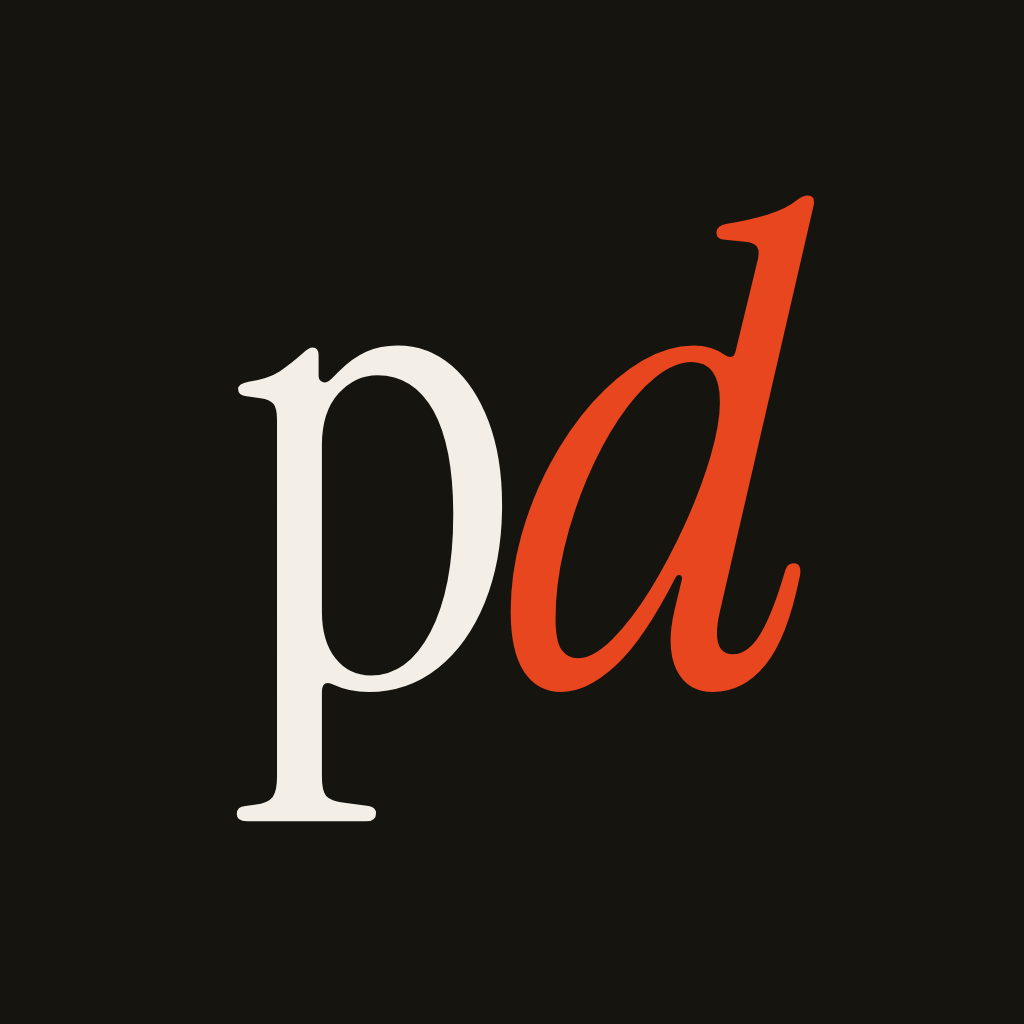
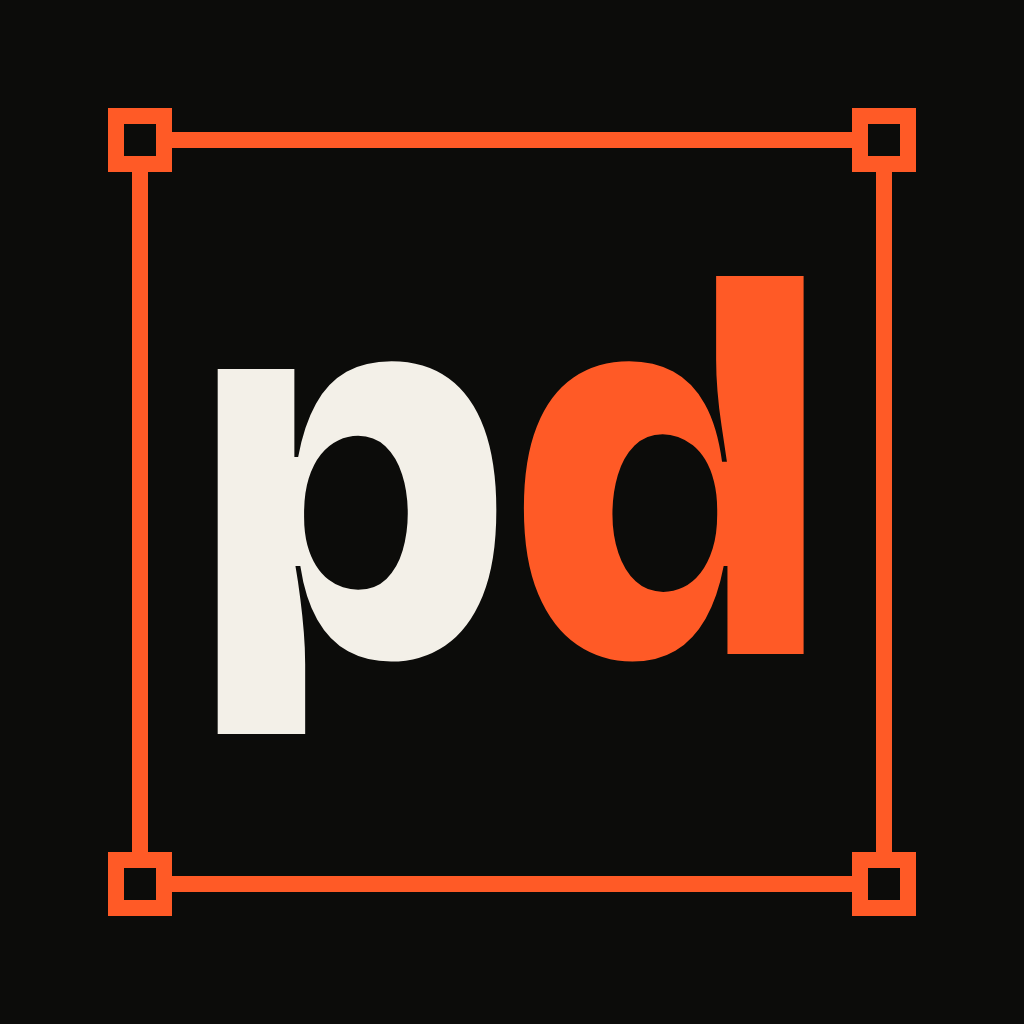
Redesign README visuals: design with receipts
New hero and social preview, team route, every-state and worked-example images,
and a new plugin icon. Every number comes from the example's artifacts; loading
and error states are labeled as specified, not built. HTML sources and a render
script live in .github/assets/src/.

Changed region(s): [[0.1875, 0.1875, 0.8125, 0.8125], [0.0938, 0.0938, 0.9062, 0.9062]]

diff --git a/.github/assets/src/states.html b/.github/assets/src/states.html
@@ -1,0 +1,71 @@
+<!doctype html>
+<html><head><meta charset="utf-8"><link rel="stylesheet" href="brand.css">
+<link rel="stylesheet" href="../../../examples/pantry-meal-planner/src/tokens/tokens.css"><link rel="stylesheet" href="../../../examples/pantry-meal-planner/src/components/components.css">
+<style>
+html,body{width:1280px;height:800px}
+.display{letter-spacing:-.025em;line-height:1.03}
+h2{position:absolute;left:56px;top:44px;font-size:60px;color:var(--ink)}
+.lede{position:absolute;left:58px;top:124px;font:400 24px "Bricolage Grotesque";color:var(--dim)}
+.lede b{color:var(--ink);font-weight:600}
+.row{position:absolute;left:56px;right:56px;top:196px;display:grid;grid-template-columns:repeat(4,1fr);gap:24px}
+.lab{display:flex;justify-content:space-between;align-items:baseline;font:800 20px "JetBrains Mono";color:var(--ink);margin-bottom:12px}
+.lab span{font-weight:400;color:var(--dim);font-size:18px}
+.phone{height:360px;border-radius:22px;border:2px solid #3A3933;overflow:hidden;background:var(--color-surface-page);color:var(--color-text-primary);
+ font-family:"Bricolage Grotesque",sans-serif;zoom:1.12}
+.phone .in{padding:20px;display:grid;gap:12px;font-family:"Bricolage Grotesque",sans-serif}
+.phone *{font-family:"Bricolage Grotesque",sans-serif!important}
+.ph{font:700 24px/1.15 "Bricolage Grotesque";margin:0}
+.dt{font-size:14px;color:var(--color-text-secondary)}
+.card{display:grid;gap:8px}
+.card h3{font:600 15px/1.3 x;margin:0}
+.rn{font-weight:600;font-size:15px;margin:0}.mt{font-size:13px;color:var(--color-text-secondary);margin:0}
+.acts{display:flex;gap:6px}
+.sk{height:12px;border-radius:6px;background:var(--color-surface-sunken)}
+.empty-state{padding:16px!important}
+.tagrow{margin-top:16px;display:flex;flex-wrap:nowrap;gap:8px}
+.t{font:600 16px "JetBrains Mono";padding:4px 9px;border-radius:5px;background:var(--red);color:#fff}
+.t.gap{background:transparent;border:2px solid var(--sig);color:var(--sig)}
+.foot{position:absolute;left:56px;right:56px;bottom:34px;font:400 18px/1.6 "JetBrains Mono";color:var(--dim)}
+.foot b{color:var(--ink);font-weight:600}
+</style></head><body>
+<h2 class="display">The happy path is one state.</h2>
+<div class="lede"><b>pd-ux-design</b> specs every state before anyone builds. Four from the example.</div>
+
+<div class="row">
+ <div><div class="lab">populated <span>built</span></div>
+  <div class="phone"><div class="in">
+   <p class="ph">This week</p><p class="dt">Oct 19 – 25, 2026</p>
+   <div class="card"><h3>Monday 19</h3><div><p class="rn">Lemon chickpea orzo</p><p class="mt">4 servings · 35 min</p></div>
+    <div class="acts"><button class="btn" data-kind="secondary" data-size="sm">Change</button><button class="btn" data-kind="secondary" data-size="sm">Remove</button></div></div>
+   <div class="card"><h3>Saturday 24</h3><p class="mt">Nothing planned</p><div><button class="btn" data-kind="ghost" data-size="md">Add dinner</button></div></div>
+  </div></div>
+  <div class="tagrow"><span class="t">Card</span><span class="t">Button sm</span></div></div>
+
+ <div><div class="lab">loading <span>spec only</span></div>
+  <div class="phone"><div class="in">
+   <p class="ph">This week</p><p class="dt">Loading your week</p>
+   <div class="card"><p class="mt">Loading</p></div>
+   <div class="card"><p class="mt">Loading</p></div>
+   <div class="card"><p class="mt">Loading</p></div>
+  </div></div>
+  <div class="tagrow"><span class="t gap">gap logged: Skeleton</span></div></div>
+
+ <div><div class="lab">empty <span>built</span></div>
+  <div class="phone"><div class="in">
+   <p class="ph">This week</p><p class="dt">Oct 19 – 25, 2026</p>
+   <div class="empty-state"><h3>No dinners planned yet</h3><p>Pick a few saved recipes and Pantry will turn them into a shopping list.</p>
+    <div><button class="btn" data-kind="primary" data-size="md">Browse saved recipes</button></div></div>
+  </div></div>
+  <div class="tagrow"><span class="t">EmptyState</span></div></div>
+
+ <div><div class="lab">error <span>spec only</span></div>
+  <div class="phone"><div class="in">
+   <p class="ph">This week</p><p class="dt">Oct 19 – 25, 2026</p>
+   <div class="empty-state" data-tone="error"><h3>Couldn't load your plan</h3><p>Something went wrong on our side. Your saved recipes are safe.</p>
+    <div><button class="btn" data-kind="secondary" data-size="md">Try again</button></div></div>
+  </div></div>
+  <div class="tagrow"><span class="t">EmptyState · error</span></div></div>
+</div>
+
+<div class="foot">excerpts redrawn from the spec · <b>loading and error were specified, not built or audited</b> (QA F-1)<br>also specified: <b>offline</b> · <b>recipe deleted</b> · <b>no saved recipes</b></div>
+</body></html>

diff --git a/.github/assets/src/team.html b/.github/assets/src/team.html
@@ -1,0 +1,54 @@
+<!doctype html>
+<html><head><meta charset="utf-8"><link rel="stylesheet" href="brand.css">
+<style>
+html,body{width:1280px;height:790px}
+.display{letter-spacing:-.025em;line-height:1.03}
+.k{font:600 17px "JetBrains Mono";letter-spacing:.14em;text-transform:uppercase;color:var(--dim)}
+h2{position:absolute;left:56px;top:44px;font-size:60px}
+.lede{position:absolute;left:58px;top:120px;font:400 25px "Bricolage Grotesque";color:var(--dim)}
+.lede b{color:var(--ink);font-weight:600}
+.lead{position:absolute;right:56px;top:50px;display:flex;align-items:center;gap:12px;background:var(--ink);color:var(--bg);
+ font:800 24px "JetBrains Mono";padding:16px 22px;border-radius:10px}
+.lead i{width:12px;height:12px;border-radius:50%;background:var(--sig)}
+.cols{position:absolute;left:56px;right:56px;top:188px;display:grid;grid-template-columns:1fr 1.3fr 1fr .9fr;gap:20px}
+.col{border-top:3px solid var(--line);padding-top:16px}
+.col .k{margin-bottom:16px}
+.n{display:inline-block;font:600 21px "JetBrains Mono";border:2px solid #3A3933;border-radius:9px;padding:8px 13px;margin:0 8px 10px 0;color:var(--dim);background:var(--panel)}
+.n.on{border-color:var(--sig);color:var(--ink)}
+.route{position:absolute;left:56px;right:56px;top:462px}
+.route .k{margin-bottom:14px}
+.route .k b{color:var(--sig)}
+.strip{display:flex;align-items:center}
+.s{font:800 21px "JetBrains Mono";background:var(--sig);color:var(--bg);border-radius:9px;padding:10px 13px;white-space:nowrap}
+.c{flex:1;height:2px;background:var(--sig);min-width:14px;position:relative}
+.c::after{content:"";position:absolute;right:-1px;top:-5px;border:6px solid transparent;border-left:8px solid var(--sig);border-right:0}
+.fork{display:flex;flex-direction:column;gap:8px;border-left:2px solid var(--sig);border-right:2px solid var(--sig);padding:0 10px}
+.note{margin-top:12px;font:400 18px "JetBrains Mono";color:var(--dim)}
+.found{position:absolute;left:56px;right:56px;bottom:44px;border:2px solid #3A3933;border-radius:12px;padding:16px 22px;display:flex;justify-content:space-between;align-items:center;background:var(--panel)}
+.found b{font:800 21px "JetBrains Mono";color:var(--ink)}
+.found span{font:400 21px "Bricolage Grotesque";color:var(--dim)}
+.found span em{font-style:normal;color:var(--ink)}
+</style></head><body>
+<h2 class="display">The team follows the task.</h2>
+<div class="lede">The lead plans the <b>smallest team</b> for each job, and waits for your OK.</div>
+<div class="lead"><i></i>pd-design-lead</div>
+
+<div class="cols">
+ <div class="col"><div class="k">Understand</div><span class="n">research</span><span class="n">architecture</span><span class="n on">flows</span></div>
+ <div class="col"><div class="k">Design</div><span class="n on">ux-design</span><span class="n on">writing</span><span class="n on">visual</span><span class="n on">design-system</span><span class="n">responsive</span></div>
+ <div class="col"><div class="k">Build &amp; verify</div><span class="n on">mocks</span><span class="n">prototyping</span><span class="n on">qa</span></div>
+ <div class="col"><div class="k">Ship &amp; learn</div><span class="n on">handoff</span><span class="n">metrics</span><span class="n">system-ops ↺</span></div>
+</div>
+
+<div class="route">
+ <div class="k">One route · <b>a new flow and its screens</b></div>
+ <div class="strip">
+  <span class="s">flows</span><span class="c"></span><span class="s">ux-design</span><span class="c"></span>
+  <span class="fork"><span class="s">writing</span><span class="s">visual</span></span><span class="c"></span>
+  <span class="s">design-system</span><span class="c"></span><span class="s">mocks</span><span class="c"></span><span class="s">qa</span><span class="c"></span><span class="s">handoff</span>
+ </div>
+ <div class="note">research reused or assumptions agreed · a copy fix needs one specialist</div>
+</div>
+
+<div class="found"><b>pd-foundations</b><span><em>your real design system</em> · every state · WCAG 2.2 AA floor · files in docs/design/</span></div>
+</body></html>

diff --git a/.github/assets/src/example.html b/.github/assets/src/example.html
@@ -1,0 +1,44 @@
+<!doctype html>
+<html><head><meta charset="utf-8"><link rel="stylesheet" href="brand.css">
+<style>
+html,body{width:1280px;height:830px}
+.display{letter-spacing:-.025em;line-height:1.03}
+h2{position:absolute;left:56px;top:44px;font-size:60px}
+.lede{position:absolute;left:58px;top:124px;font:400 24px "Bricolage Grotesque";color:var(--dim)}
+.lede b{color:var(--ink);font-weight:600}
+.win{position:absolute;left:56px;top:196px;width:744px;height:560px;border:2px solid #3A3933;border-radius:14px;overflow:hidden;background:#faf7f2}
+.bar{height:44px;background:#1A1A17;display:flex;align-items:center;gap:8px;padding:0 16px;border-bottom:2px solid #3A3933}
+.bar i{width:12px;height:12px;border-radius:50%;background:#3A3933}
+.bar span{margin-left:14px;font:400 16px "JetBrains Mono";color:var(--dim)}
+.vp{overflow:hidden}.shot{width:100%;display:block}
+.files{position:absolute;left:836px;right:56px;top:196px}
+.files .k{font:600 17px "JetBrains Mono";letter-spacing:.14em;text-transform:uppercase;color:var(--dim);border-bottom:3px solid var(--line);padding-bottom:12px;margin-bottom:6px}
+.m{padding:10px 0 12px;border-bottom:1px solid var(--line);display:flex;flex-direction:column;align-items:flex-start;gap:8px}.m b{font:800 21px "JetBrains Mono"}
+.f{display:flex;justify-content:space-between;align-items:center;font:600 19px "JetBrains Mono";padding:3px 0;border-bottom:1px solid var(--line)}
+.p{font:600 16px "JetBrains Mono";padding:3px 8px;border-radius:5px;border:2px solid #4A4942;color:var(--dim)}
+.p.a{border-color:var(--ok);color:var(--ok)}
+.p.s{border-color:var(--sig);color:var(--sig)}
+.f.side{color:var(--dim)}
+.foot{position:absolute;left:56px;right:56px;bottom:30px;display:flex;justify-content:space-between;font:400 20px "JetBrains Mono";color:var(--dim)}
+.foot b{color:var(--ink);font-weight:600}
+.tag{z-index:2}
+</style></head><body>
+<h2 class="display">One brief in. A whole effort out.</h2>
+<div class="lede">The worked example: a <b>fictional meal planner</b> (invented data), run through the team from plan to handoff.</div>
+
+<div class="win"><div class="bar"><i></i><i></i><i></i><span>mocks/week-planner.html · built only from tokens</span></div>
+ <div class="vp"><img class="shot" src=".build/mock-week.png"></div></div>
+<div class="tag" style="left:470px;top:736px">text contrast 4.71–14.97 : 1</div>
+
+<div class="files">
+ <div class="k">docs/design/</div>
+ <div class="m"><b>plan</b><span class="p a">approved</span></div>
+ <div class="m"><b>research</b><span class="p">draft · assumptions only</span></div>
+ <div class="m"><b>5 specs</b><span class="p">in review · flows → components</span></div>
+ <div class="m"><b>mocks</b><span class="p">in review · 0 off-token colors</span></div>
+ <div class="m"><b>qa</b><span class="p s">pass with conditions · 5 medium open</span></div>
+ <div class="m"><b>handoff</b><span class="p">draft · spec v1.0</span></div>
+</div>
+
+<div class="foot"><div>open it: <b>examples/pantry-meal-planner</b></div><div></div></div>
+</body></html>

diff --git a/.github/assets/src/hero.html b/.github/assets/src/hero.html
@@ -1,0 +1,43 @@
+<!doctype html>
+<html><head><meta charset="utf-8"><link rel="stylesheet" href="brand.css">
+<style>
+html,body{width:1280px;height:640px}
+.top{position:absolute;left:56px;right:56px;top:36px;display:flex;justify-content:space-between;font:400 20px "JetBrains Mono";color:var(--dim)}
+.top b{color:var(--ink);font-weight:800}
+.top .dot{display:inline-block;width:11px;height:11px;border-radius:50%;background:var(--sig);margin-right:10px;vertical-align:1px}
+.hl{position:absolute;left:30px;top:22px;font-size:144px;white-space:nowrap;letter-spacing:-.035em}
+.sub{position:absolute;left:56px;bottom:30px;font:600 34px "Bricolage Grotesque";letter-spacing:-.01em}
+.sub span{color:var(--dim);font-weight:400}
+.receipt{left:794px;top:88px;width:430px;padding:28px 30px 44px;font-size:19px;line-height:1.6}
+.receipt .t{font-weight:800;font-size:22px;letter-spacing:.06em}
+.receipt .s{color:#6D685C;font-size:16px}
+.receipt .big{font-weight:800;font-size:23px;letter-spacing:.02em;margin-top:4px}
+.bar{height:34px;margin-top:14px;background:repeating-linear-gradient(90deg,#151512 0 3px,transparent 3px 5px,#151512 5px 6px,transparent 6px 10px,#151512 10px 14px,transparent 14px 16px)}
+</style></head><body>
+<div class="top"><div><span class="dot"></span><b>pd-design-team</b> · 16 agent skills</div><div>open source · MIT</div></div>
+
+<div class="sel" style="left:56px;top:110px;width:690px;height:426px">
+ <span class="h tl"></span><span class="h tr"></span><span class="h bl"></span><span class="h br"></span>
+ <div class="name"><b>FRAME</b>hero · auto layout</div>
+ <div class="hl display">Design<br>with<br><span class="sig">receipts.</span></div>
+</div>
+<div class="rh" style="left:746px;top:300px;width:48px"></div><div class="tag" style="left:736px;top:312px">48</div>
+
+<div class="receipt">
+ <div class="t">QA RECEIPT</div>
+ <div class="s">week-planner · pd-ux-qa</div>
+ <hr>
+ <div class="row"><span>off-token colors</span><span class="chk">0 / 226 ✓</span></div>
+ <div class="row"><span>text contrast</span><span class="chk">4.71–14.97 ✓</span></div>
+ <div class="row"><span>reflow @ 320px</span><span class="chk">✓</span></div>
+ <div class="row"><span>system gaps</span><span>4 logged</span></div>
+ <hr>
+ <div class="s" style="color:#151512;font-weight:800">NOT RUN</div>
+ <div class="nt" style="font-size:18px">screen reader · keyboard · axe</div>
+ <hr>
+ <div class="row s"><span>9 findings · 0 critical</span><span>5 medium open</span></div>
+ <div class="big">PASS WITH CONDITIONS</div>
+</div>
+
+<div class="sub">A design team for your AI agent.</div>
+</body></html>

diff --git a/.github/assets/src/brand.css b/.github/assets/src/brand.css
@@ -1,0 +1,30 @@
+@import url("https://fonts.googleapis.com/css2?family=Bricolage+Grotesque:opsz,wght@12..96,400;12..96,600;12..96,800&family=JetBrains+Mono:wght@400;600;800&display=block");
+:root{--bg:#0C0C0A;--panel:#141411;--ink:#F3F0E8;--dim:#9A968B;--line:#2C2B26;--sig:#FF5A26;--ok:#C8F560;--red:#FF3E70;--paper:#F1EDE2;--pink:#121210}
+*{box-sizing:border-box;margin:0;padding:0}
+body{background:var(--bg);color:var(--ink);font-family:"Bricolage Grotesque",sans-serif;position:relative;overflow:hidden;
+ background-image:radial-gradient(circle,#262520 1.3px,transparent 1.5px);background-size:32px 32px;background-position:16px 16px}
+.mono{font-family:"JetBrains Mono",monospace}
+.display{font-weight:800;letter-spacing:-.045em;line-height:.88}
+.sig{color:var(--sig)}.ok{color:var(--ok)}.dim{color:var(--dim)}
+/* selection frame */
+.sel{position:absolute;border:2px solid var(--sig)}
+.sel>.h{position:absolute;width:12px;height:12px;background:var(--bg);border:2px solid var(--sig)}
+.sel>.h.tl{left:-7px;top:-7px}.sel>.h.tr{right:-7px;top:-7px}.sel>.h.bl{left:-7px;bottom:-7px}.sel>.h.br{right:-7px;bottom:-7px}
+.sel>.name{position:absolute;left:-2px;top:-34px;font:600 17px "JetBrains Mono";color:var(--sig);white-space:nowrap}
+.sel>.name b{background:var(--sig);color:var(--bg);padding:3px 8px;margin-right:10px;font-weight:800}
+/* redline */
+.tag{position:absolute;font:800 18px "JetBrains Mono";background:var(--red);color:#0B0B09;padding:3px 8px;border-radius:4px;white-space:nowrap}
+.rv{position:absolute;width:2px;background:var(--red)}
+.rv::before,.rv::after{content:"";position:absolute;left:-5px;width:12px;height:2px;background:var(--red)}
+.rv::before{top:0}.rv::after{bottom:0}
+.rh{position:absolute;height:2px;background:var(--red)}
+.rh::before,.rh::after{content:"";position:absolute;top:-5px;height:12px;width:2px;background:var(--red)}
+.rh::before{left:0}.rh::after{right:0}
+/* receipt */
+.receipt{position:absolute;background:var(--paper);color:#151512;font-family:"JetBrains Mono",monospace;
+ --z:14px;-webkit-mask:conic-gradient(from -45deg at bottom,#0000,#000 1deg 89deg,#0000 90deg) 50%/calc(2*var(--z)) 100%;
+}
+.receipt .row{display:flex;justify-content:space-between;gap:12px}
+.receipt hr{border:0;border-top:2px dashed #B9B3A4;margin:14px 0}
+.chk{color:#3E7A00;font-weight:800}
+.nt{color:#C93A0B;font-weight:800}

diff --git a/.github/assets/src/icon.html b/.github/assets/src/icon.html
@@ -1,0 +1,12 @@
+<!doctype html>
+<html><head><meta charset="utf-8"><link rel="stylesheet" href="brand.css">
+<style>
+html,body{width:1024px;height:1024px;background-image:none}
+.sel{left:132px;top:132px;width:760px;height:760px;border-width:16px}
+.sel>.h{width:64px;height:64px;border-width:16px}
+.sel>.h.tl{left:-40px;top:-40px}.sel>.h.tr{right:-40px;top:-40px}.sel>.h.bl{left:-40px;bottom:-40px}.sel>.h.br{right:-40px;bottom:-40px}
+.t{position:absolute;left:0;right:0;top:206px;text-align:center;font-weight:800;font-size:540px;letter-spacing:.005em;line-height:1}
+</style></head><body>
+<div class="sel"><span class="h tl"></span><span class="h tr"></span><span class="h bl"></span><span class="h br"></span></div>
+<div class="t">p<span class="sig">d</span></div>
+</body></html>

diff --git a/README.md b/README.md
@@ -1,6 +1,6 @@
 # pd-design-team
 
-![pd-design-team — a design team for your AI agent](.github/assets/social-preview.png)
+![pd-design-team: design with receipts. A design team for your AI agent, shown next to a QA receipt from the worked example](.github/assets/hero.png)
 
 **[English](#english) · [Español](#español)**
 
@@ -30,11 +30,7 @@ team. It asks what it needs, proposes a plan, and waits for your OK. Then it pro
 
 You only run the parts you need. A copy fix goes to one specialist; a new feature might use six.
 
-```
-you ──▶ pd-design-lead ──▶ picks the smallest set of specialists for the job
-                              research · architecture · flows · design · writing · visual
-                              design-system · mocks · prototyping · responsive · qa · handoff · metrics
-```
+![The team follows the task: pd-design-lead picks the smallest set of specialists, for example flows, ux-design, writing and visual in parallel, design-system, mocks, qa, handoff; all on top of pd-foundations](.github/assets/team.png)
 
 ### What you need
 
@@ -50,7 +46,7 @@ assumptions (no invented data), flows, screen specs with every state, copy, visu
 mapping, a coded hi-fi mock built only from design tokens, a QA report with real findings, the
 developer handoff, and the retro's learnings.
 
-![Coded mock of the Pantry week planner, produced by pd-mocks](.github/assets/example-mock.png)
+![The worked example: the coded week-planner mock next to the status of each artifact in docs/design/](.github/assets/example.png)
 
 ## Why it's different
 
@@ -71,6 +67,8 @@ developer handoff, and the retro's learnings.
   included). Regulatory checks run only when the project declares them.
 - **Built to be tested against models.** A 51-scenario behavioral eval suite lets you check whether a
   new model actually follows the contract; results go in `evals/results/`.
+
+![The happy path is one state: populated, loading, empty and error states of the example's week planner; loading and error were specified but not built or audited](.github/assets/states.png)
 
 ## Install
 
@@ -238,6 +236,8 @@ equipo con un agente de IA, sobre una app de recetas ficticia: el plan, la inves
 honestidad como supuestos (sin datos inventados), flujos, specs de pantallas con todos sus estados,
 textos, mapeo visual y de componentes, un mock de alta fidelidad en código hecho solo con tokens, un
 reporte de QA con hallazgos reales, el handoff para desarrollo y las lecciones de la retro.
+
+![El ejemplo: el mock en código del planificador semanal junto al estado de cada documento en docs/design/](.github/assets/example.png)
 
 ### Qué lo hace distinto
 

diff --git a/CHANGELOG.md b/CHANGELOG.md
@@ -7,7 +7,9 @@
 - **Fixes found by running the example:** `plan` added as an artifact discipline; QA sign-off states
   defined (`pass` / `pass with conditions` / `fail`) and the handoff gate tied to them; the design-system
   backlog entry now follows the template; the code adapter states its audit table format.
-- **Social preview image** and README hero (`.github/assets/`).
+- **README visuals** ("Design with receipts"): hero and social preview, team route, every-state, and worked
+  example images, plus a new plugin icon. Every number on them comes from the example's artifacts. Sources and
+  `render.sh` live in `.github/assets/src/`.
 - **Community files:** code of conduct, security policy, accessibility statement, issue templates (skill
   behavior, tool adapter, eval result, accessibility barrier), and a pull request template.
 
